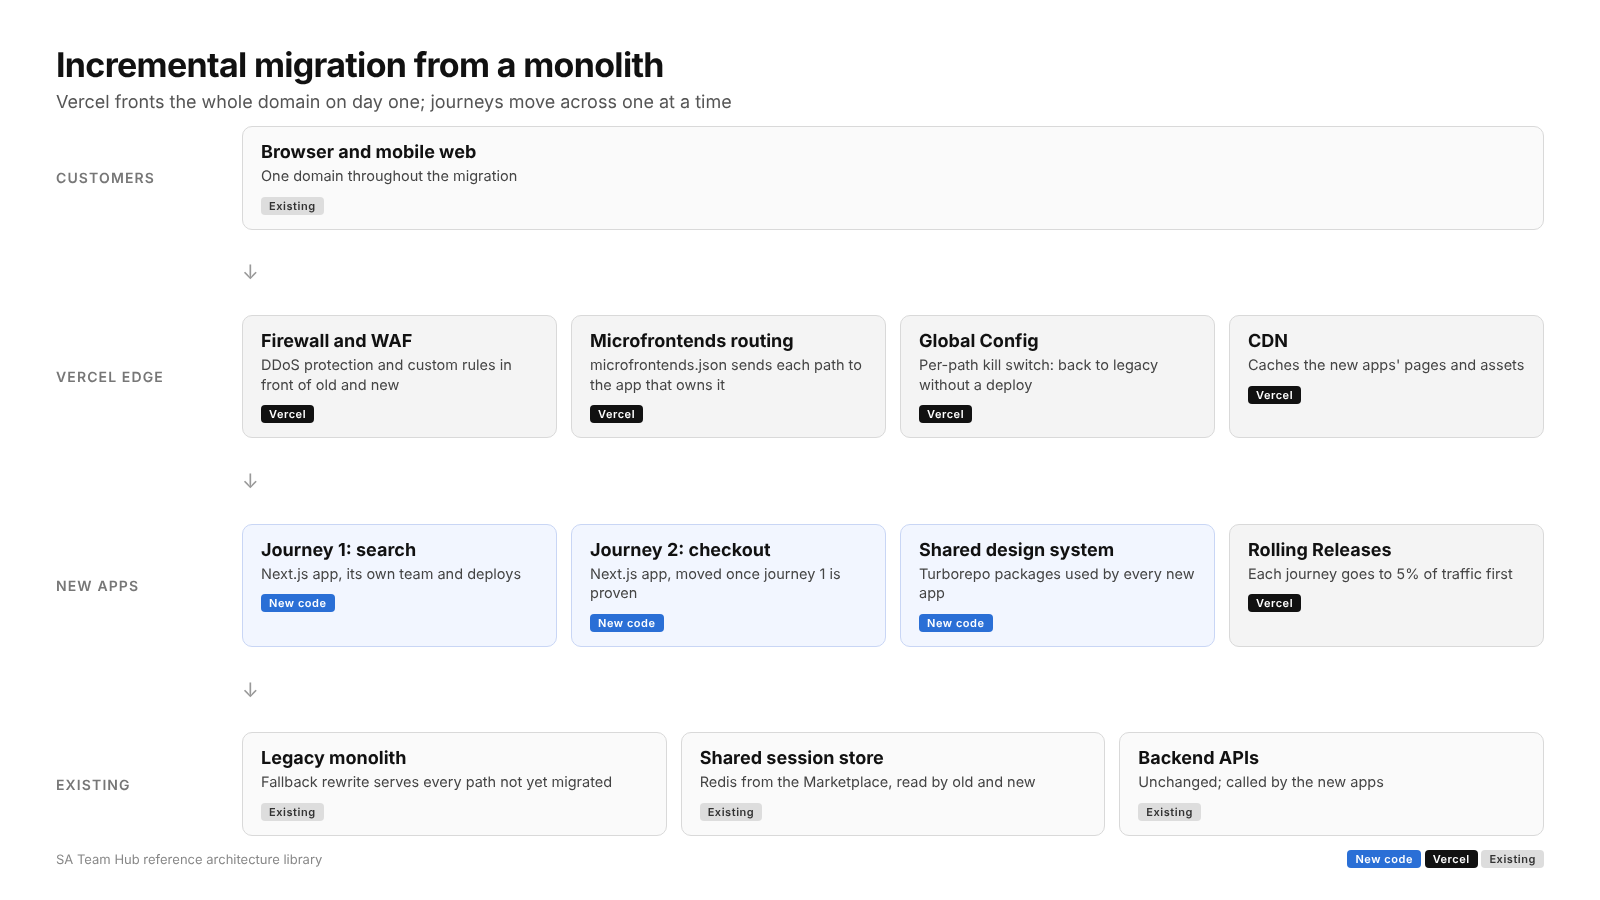
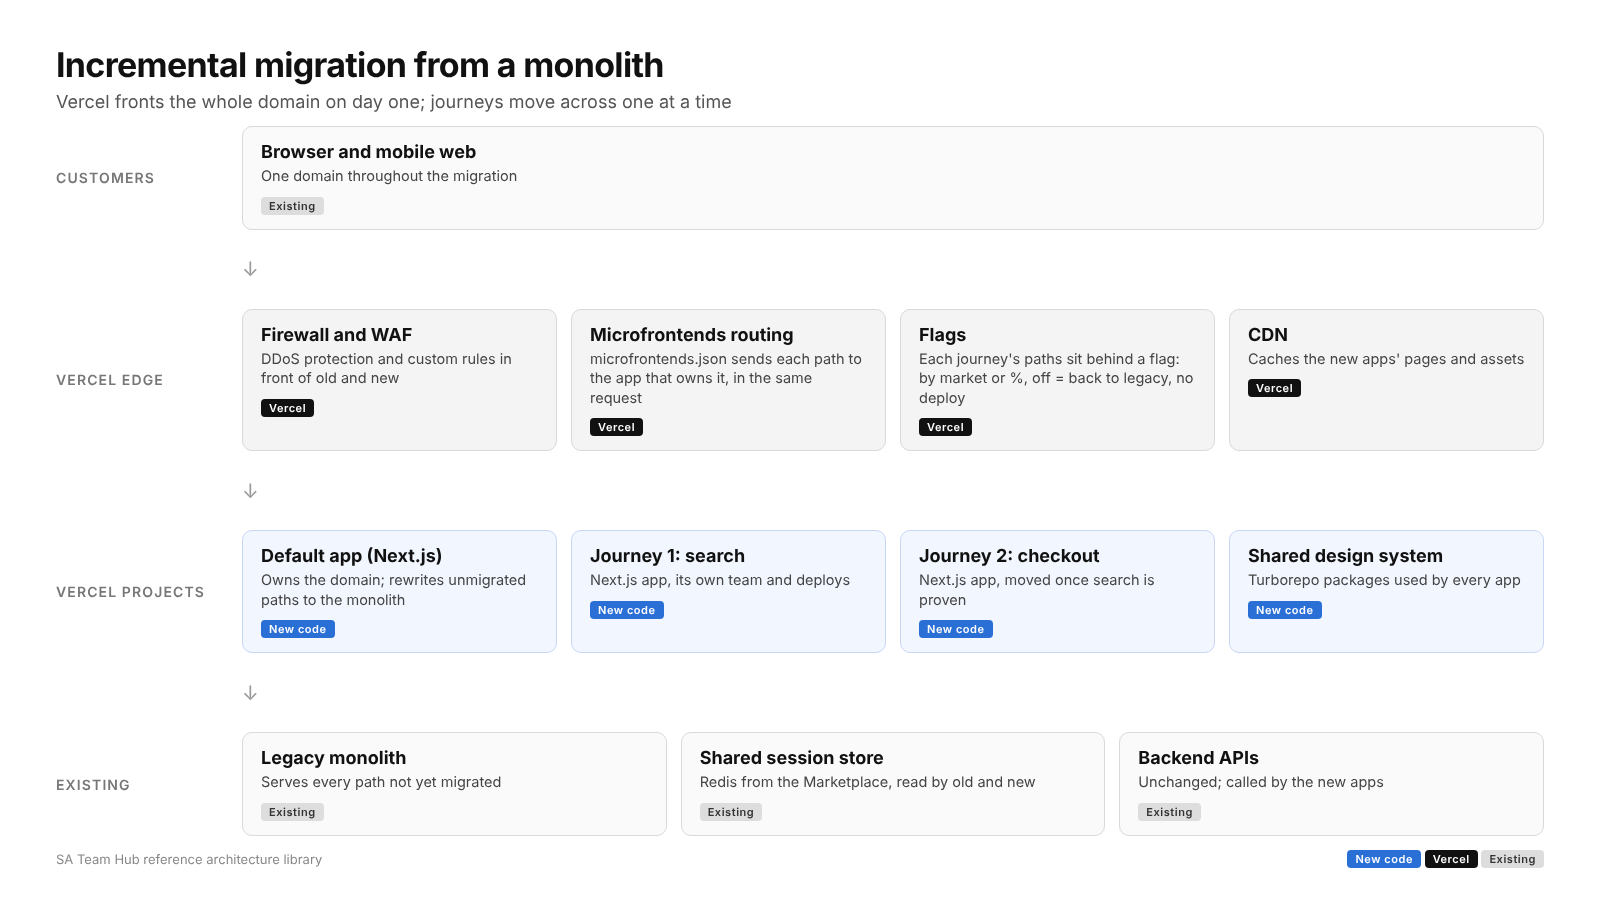
Fixing wider screen issue

diff --git a/db/setup.ts b/db/setup.ts
@@ -334,13 +334,13 @@ const architectures = [
     summary: "Vercel in front of the whole domain on day one; journeys move across one at a time.",
     problem: "A monolith serves server-rendered templates with some React on top. A big-bang rewrite is too risky, and the business can't freeze features while it happens.",
     approach:
-      "Point the production domain at Vercel first. A fallback rewrite sends every path the new app doesn't serve yet to the legacy origin, so customers see one site throughout. " +
-      "Move one journey at a time, highest value first, each as its own microfrontend that its team ships independently, with a shared design system in Turborepo. " +
-      "Global Config holds a kill switch per path, so going back to the legacy page is a dashboard change rather than a deploy, and Rolling Releases puts each journey in front of 5% of traffic before it goes to everyone.",
+      "Point the production domain at Vercel first. The default app in the microfrontends group owns the domain and rewrites every path not yet migrated to the legacy origin, so customers see one site throughout. " +
+      "Move one journey at a time, highest value first, each as its own microfrontend that its team ships independently, with a shared design system in Turborepo. Vercel routes each path to the app that owns it within the same request, with no extra hop. " +
+      "Each journey's paths sit behind a flag in microfrontends.json, so it can go to one market or a share of users first and back to legacy without a deploy. Instant Rollback on the default app restores the previous routing.",
     when_to_use: "Several teams, a migration measured in quarters, and journeys with clear URL boundaries.",
     watch_outs:
-      "Sessions don't cross domains, so move them to a shared store before the first journey goes live. Rewrites are limited to 1,024 routes per deployment; use Routing Middleware beyond that. Keep URLs, canonicals and redirects identical so search rankings don't move.",
-    products: ["Next.js", "Microfrontends", "Rewrites", "Global Config", "Rolling Releases", "Skew Protection"],
+      "Sessions don't cross domains, so move them to a shared store before the first journey goes live. Flagged routing needs the default app to be Next.js with the microfrontends middleware, and every app must share the same FLAGS_SECRET. Paths can't overlap between apps. Keep URLs, canonicals and redirects identical so search rankings don't move. Pro includes two microfrontends projects; Enterprise pricing is custom.",
+    products: ["Next.js", "Microfrontends", "Flags", "Rewrites", "Instant Rollback", "Turborepo"],
     author_id: "sofia-rossi",
   },
   {

diff --git a/app/(hub)/layout.tsx b/app/(hub)/layout.tsx
@@ -19,7 +19,7 @@ export default function HubLayout({ children }: { readonly children: ReactNode }
   return (
     <div className="min-h-dvh bg-background text-foreground">
       <header className="sticky top-0 z-10 border-b bg-background/90 backdrop-blur">
-        <div className="mx-auto flex max-w-6xl flex-wrap items-center gap-x-6 gap-y-2 px-4 py-3">
+        <div className="mx-auto flex max-w-[96rem] flex-wrap items-center gap-x-6 gap-y-2 px-4 py-3">
           <Link className="font-semibold tracking-tight" href="/">
             SA Team Hub
           </Link>
@@ -41,7 +41,7 @@ export default function HubLayout({ children }: { readonly children: ReactNode }
           </div>
         </div>
       </header>
-      <main className="mx-auto max-w-6xl px-4 py-8">
+      <main className="mx-auto max-w-[96rem] px-4 py-8">
         <Suspense fallback={<PageSkeleton />}>{children}</Suspense>
       </main>
     </div>
